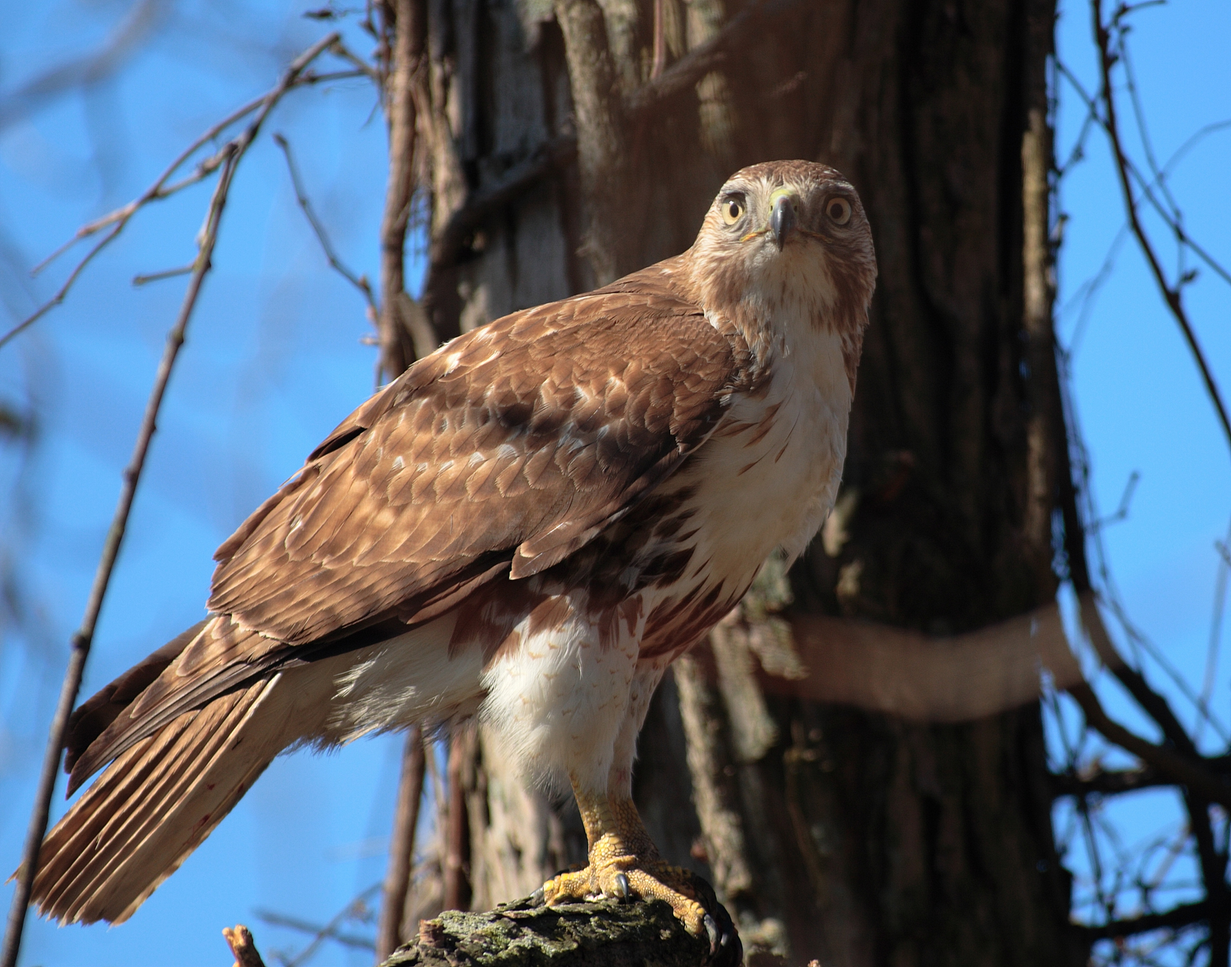
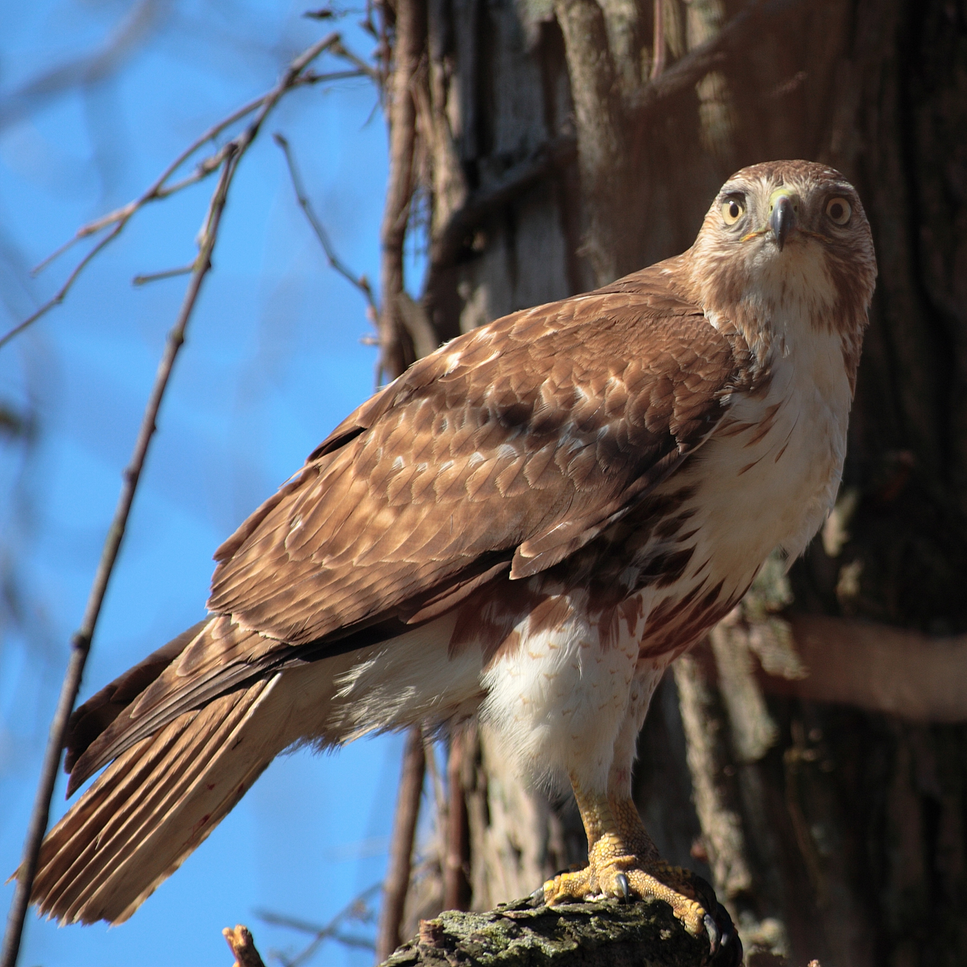
Cropped images and unknown image
Other fixes:
 - Fixed guessing more than six times (actually fixed it this time)

diff --git a/birdle.py b/birdle.py
@@ -37,15 +37,15 @@ def main():
     ohf = tk.Frame(mf, pady=30) # outer hint frame
     ohf.pack()
 
-    pc = tk.Canvas(ohf, width=100, height=100) # picture canvas
+    pc = tk.Canvas(ohf, width=150, height=150) # picture canvas
     pc.pack()
 
     # display image
     try:
-        img = ImageTk.PhotoImage(Image.open("images/birds/"+bird_data['picture']).resize((100,100), Image.LANCZOS))
+        img = ImageTk.PhotoImage(Image.open("images/birds/"+bird_data['picture']).resize((150,150), Image.LANCZOS))
     except:
-        img = ImageTk.PhotoImage(Image.open("images/stock.png").resize((100,100), Image.LANCZOS))
-    preimg = ImageTk.PhotoImage(Image.open("images/stock.png").resize((100,100), Image.LANCZOS)) # TODO: set to unknown
+        img = ImageTk.PhotoImage(Image.open("images/stock.png").resize((150,150), Image.LANCZOS))
+    preimg = ImageTk.PhotoImage(Image.open("images/unknown.png").resize((150,150), Image.LANCZOS)) # TODO: set to unknown
     pc.create_image(0,0, anchor=tk.NW, image=preimg)
 
     cf = tk.Frame(ohf)  # song/call frame
@@ -140,6 +140,7 @@ def main():
         else:
             log_guess(False)
             remLbl.config(text="Incorrect! Better luck next time!")
+            remGuesses -= 1
             disable()
 
     submitEntry.bind('<Return>', handle_submission)
